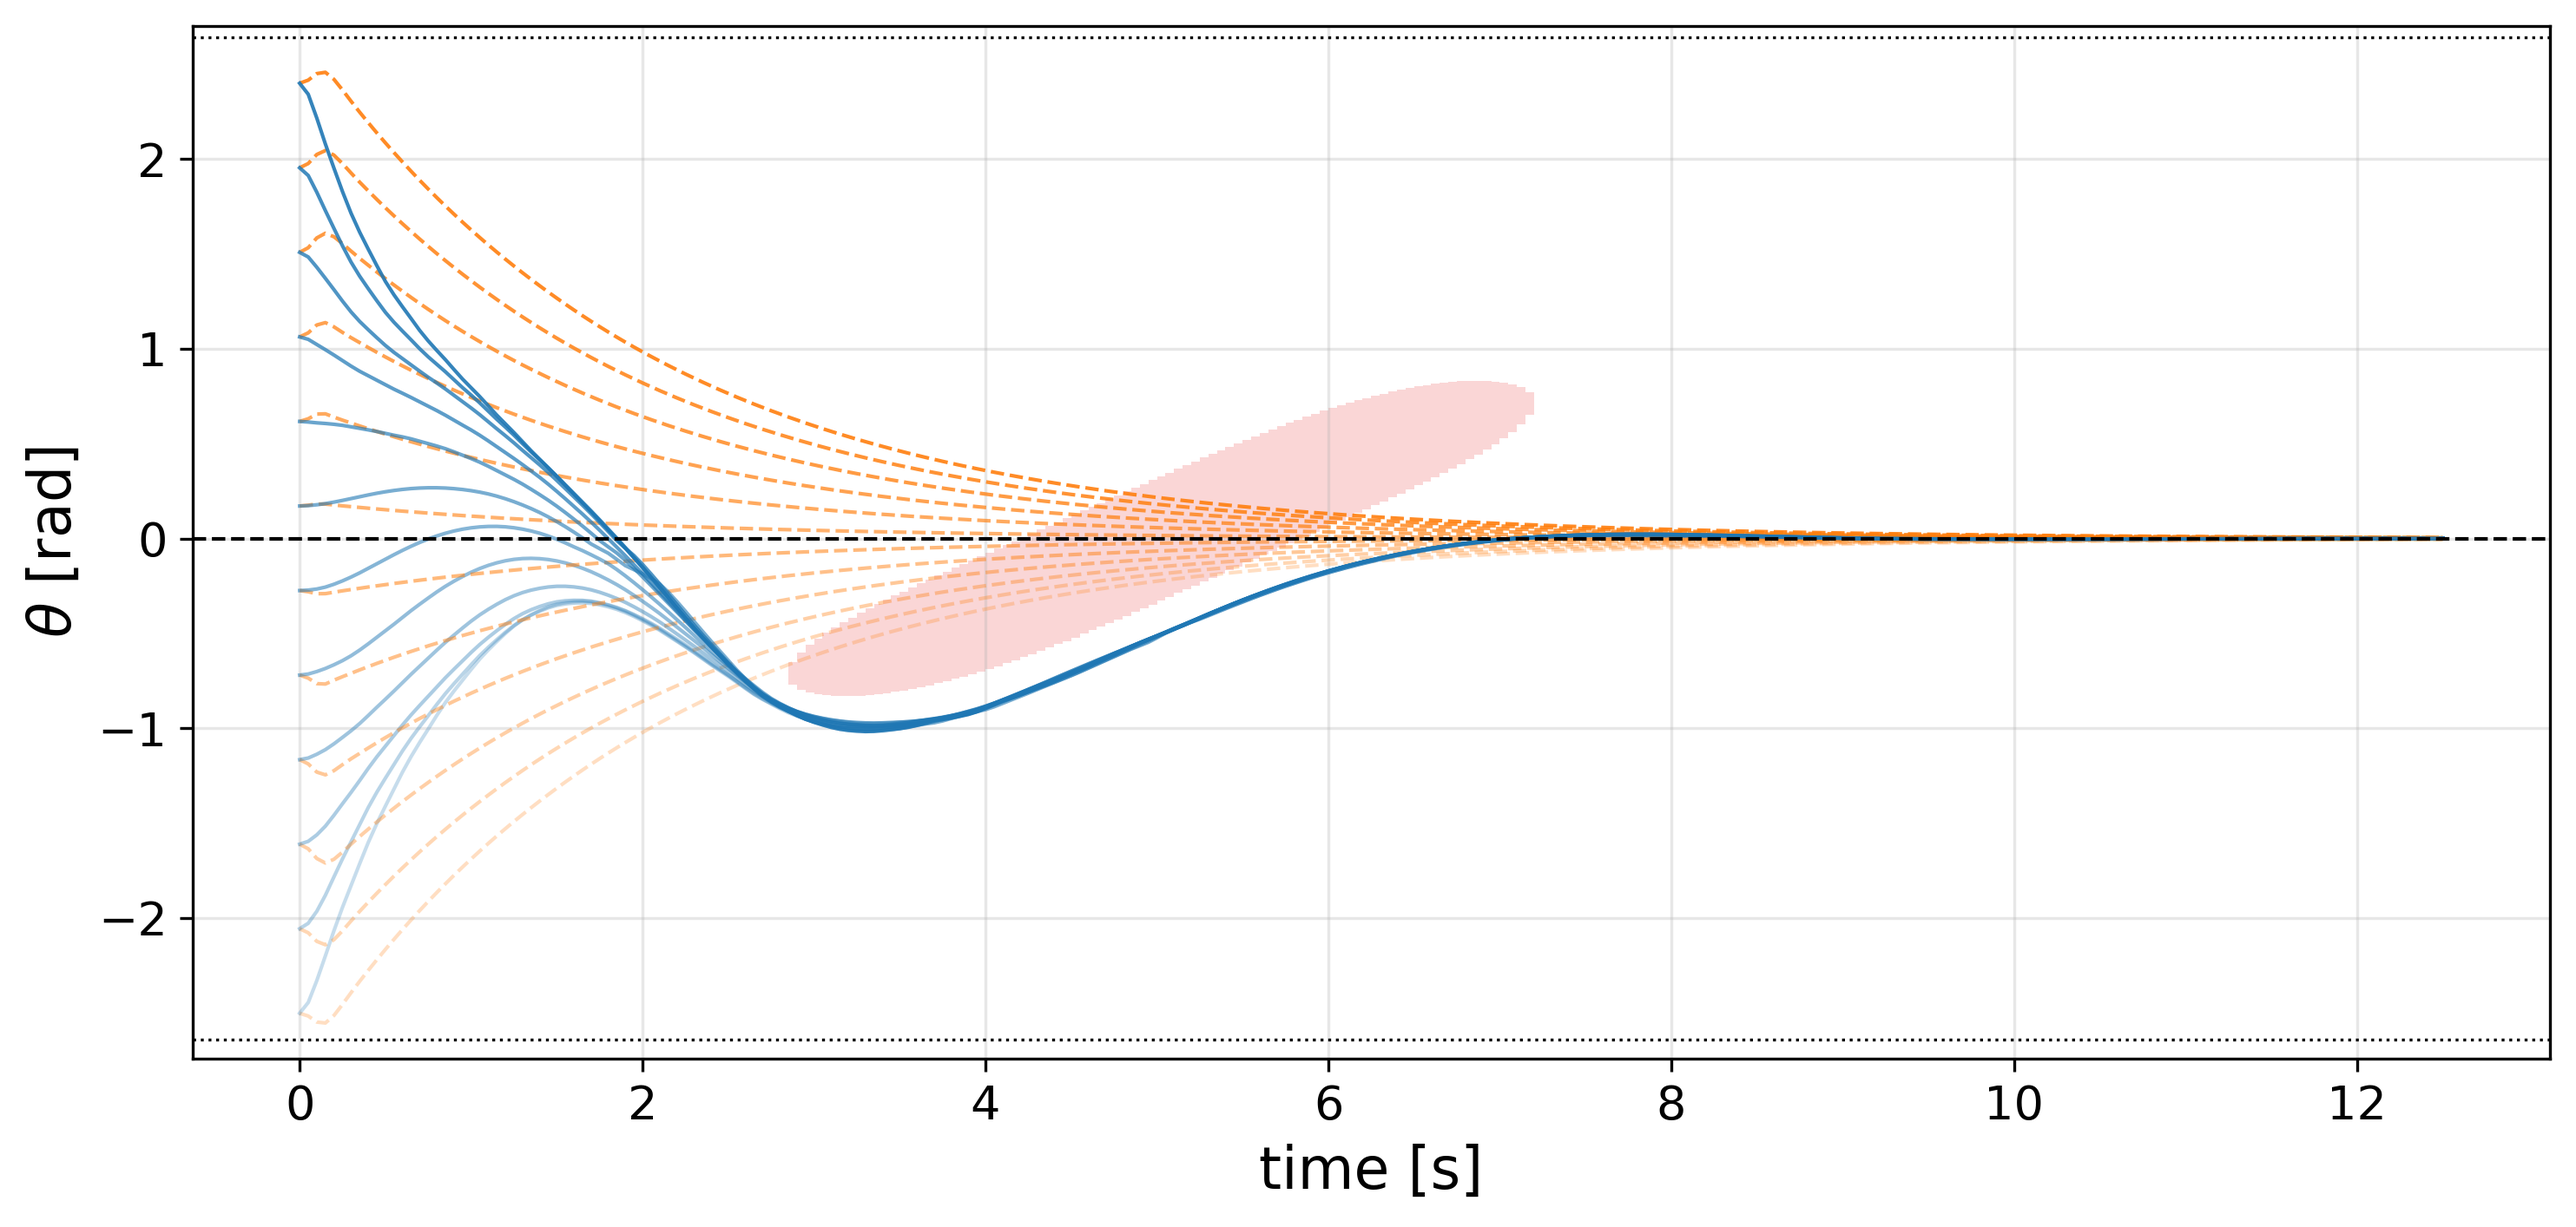
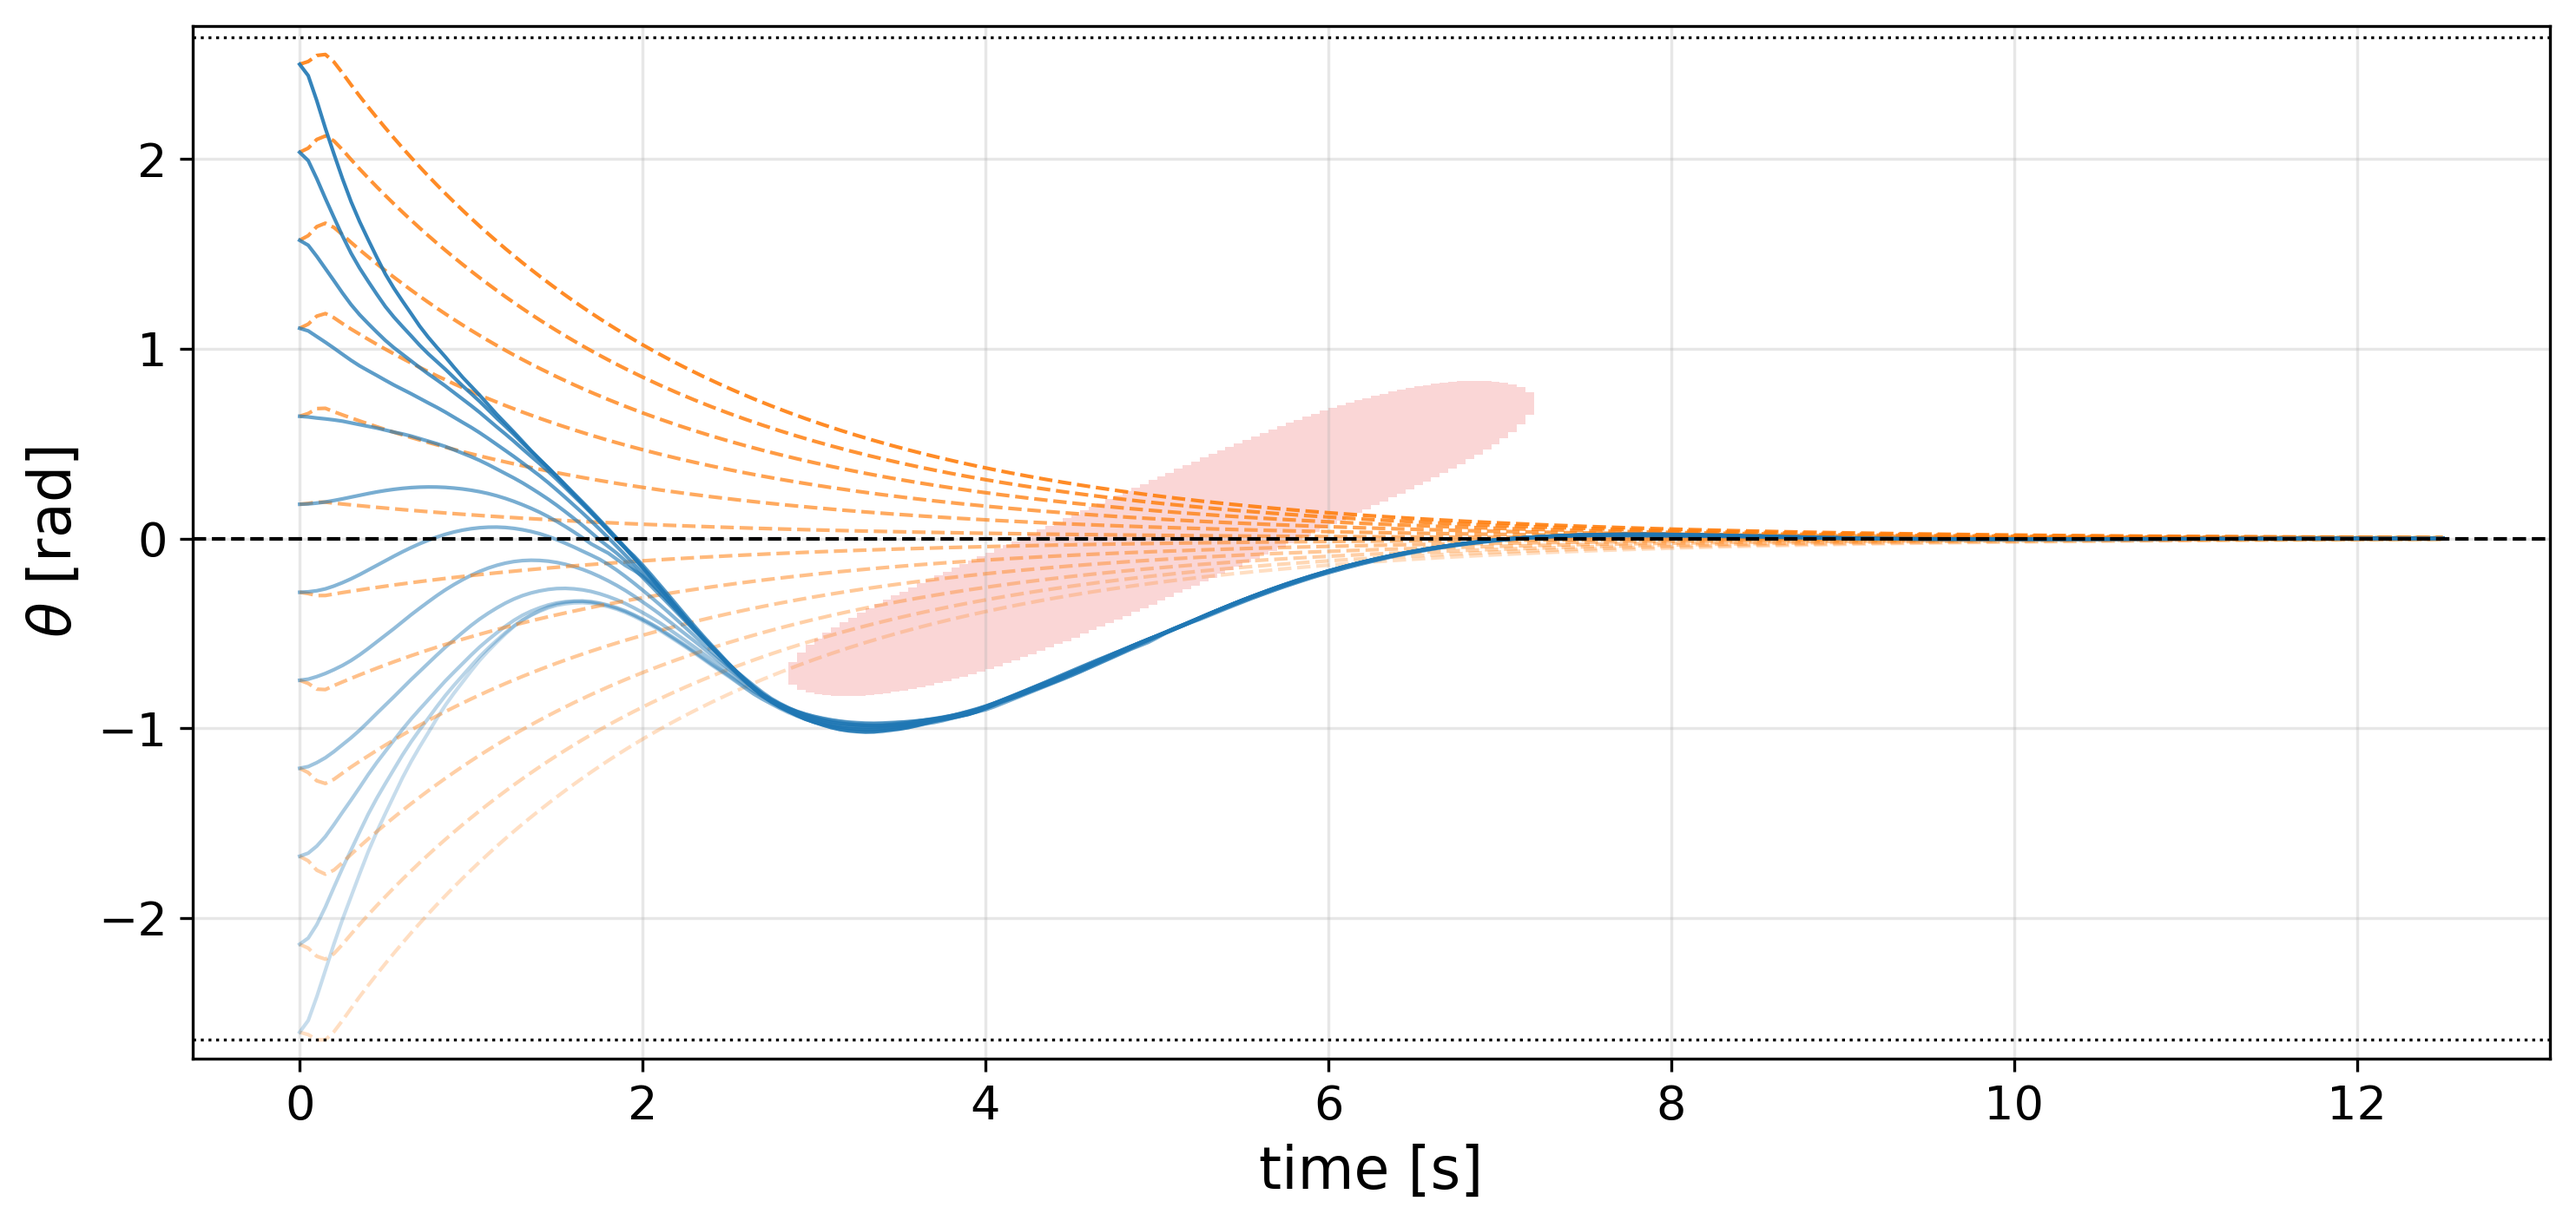
updated figures

Changed region(s): [[0.093, 0.0622, 0.7132, 0.8091]]

diff --git a/plot_results.py b/plot_results.py
@@ -58,8 +58,8 @@ ENABLE_THETA0_SWEEP = True  # set False to disable overlay computations/plots gl
 # False -> Figures 1 & 3 "sweep-only": ONLY sweep overlays (hide single-run thick lines)
 PLOT_THETA0 = False
 
-THETA0_MIN = -2.5 + 3.14  # radians conversion for 0 in pi
-THETA0_MAX =  2.4 + 3.14  # radians conversion for 0 in pi
+THETA0_MIN = -2.6 + 3.14  # radians conversion for 0 in pi
+THETA0_MAX =  2.5 + 3.14  # radians conversion for 0 in pi
 
 THETA0_N = 12  # number of θ0 samples in [min,max]
 PLOT_BASELINE_IN_SWEEP = True  # overlay PSF-only curves (baseline)
